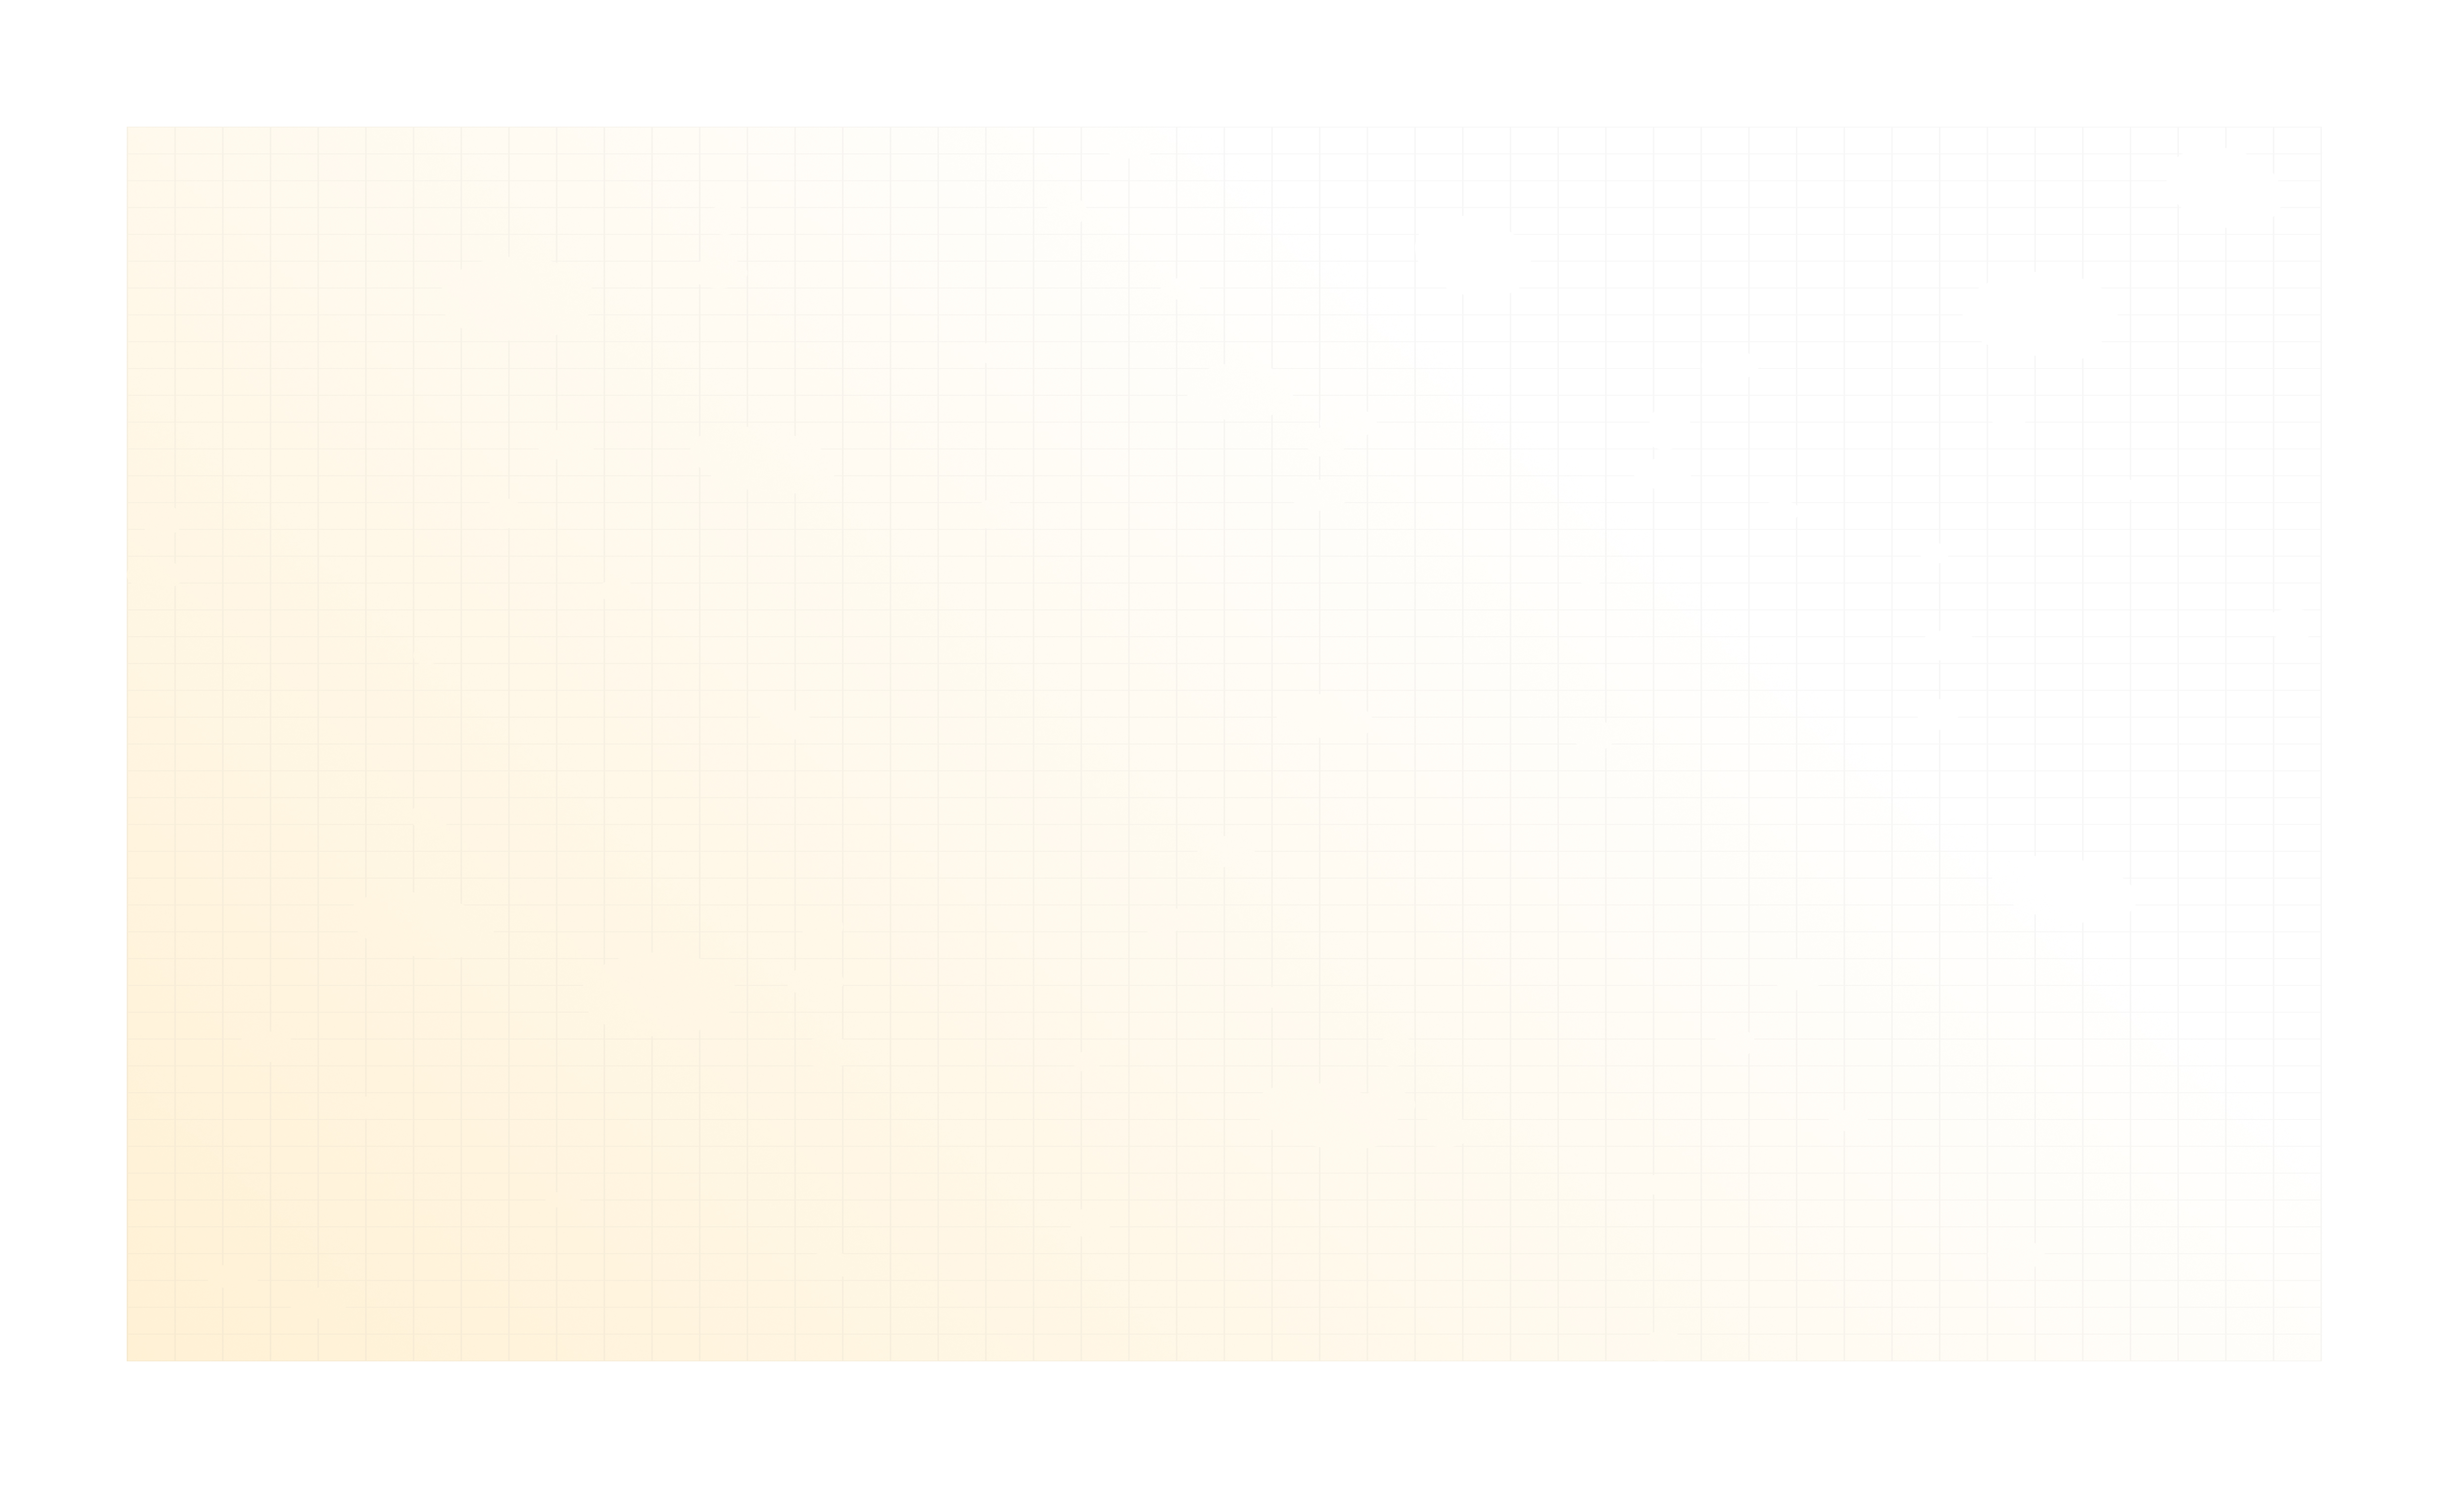
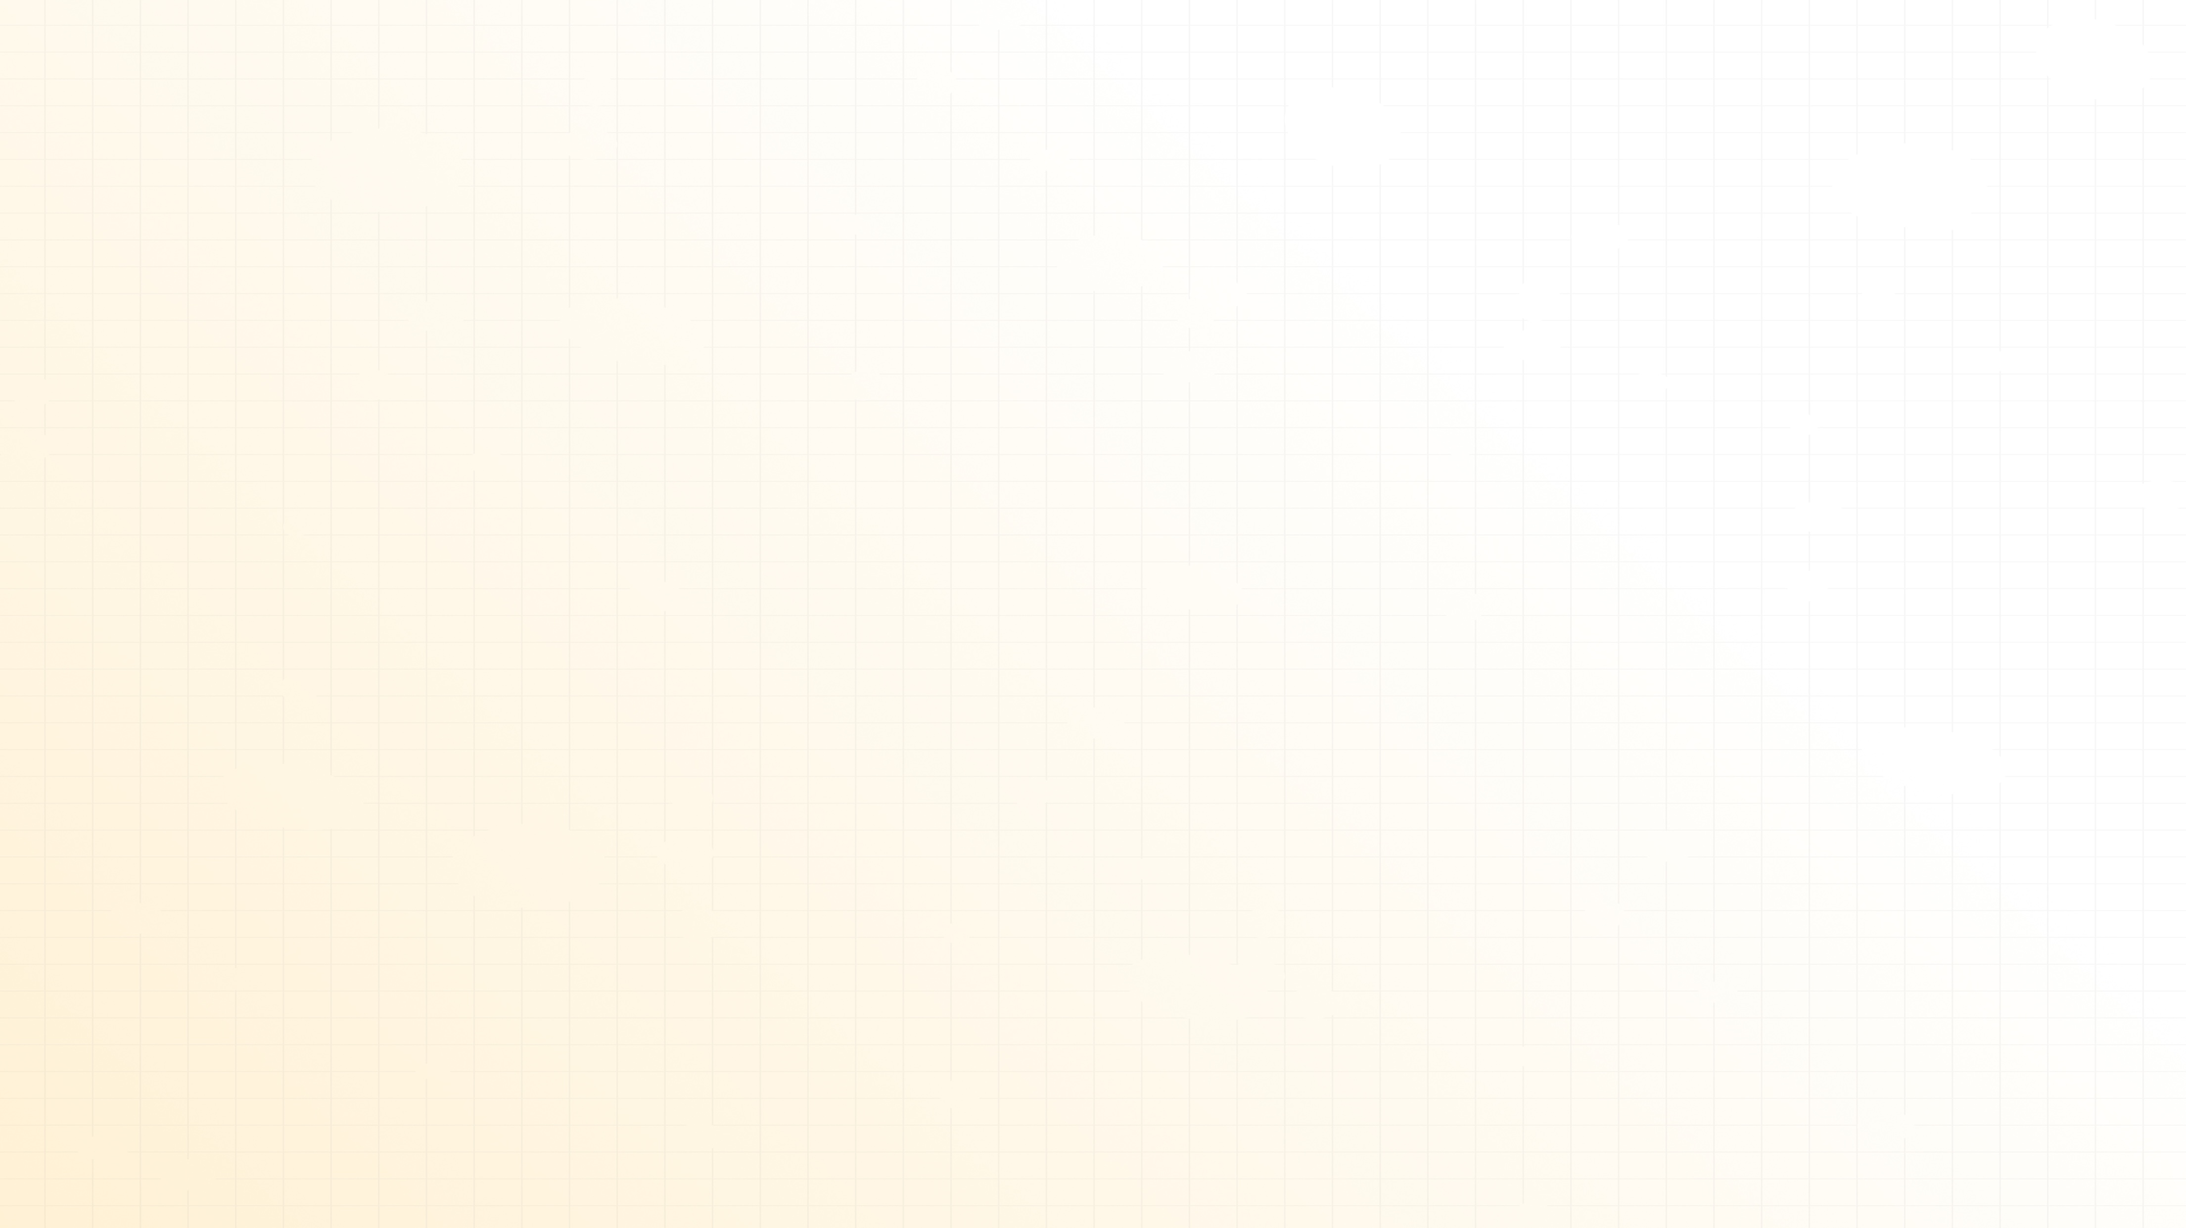
new home page design

Changed region(s): [[0.0, 0.2172, 0.4997, 1.0]]

diff --git a/app/assets/stylesheets/pages/_home.scss b/app/assets/stylesheets/pages/_home.scss
@@ -32,7 +32,7 @@
   z-index: 1;
   text-align: center;
   width: 100%;
-  max-width: 700px;
+  max-width: 1400px;
   padding: 0 24px;
 }
 
@@ -50,10 +50,26 @@
   font-style: normal;
 }
 
+.home-title-typewriter {
+  color: #f5a623;
+}
+
+.home-title-cursor {
+  color: #f5a623;
+  font-weight: 300;
+  animation: blink 0.7s step-end infinite;
+}
+
+@keyframes blink {
+  0%, 100% { opacity: 1; }
+  50%       { opacity: 0; }
+}
+
 // Chatbar
 
 .home-form {
-  width: 100%;
+  width: 66%;
+  margin: 0 auto;
 }
 
 .home-chatbar {
@@ -80,38 +96,58 @@
 }
 
 .home-submit {
-  display: flex;
-  align-items: center;
-  gap: 6px;
-  background: transparent;
+  position: relative;
+  padding: 12px 18px;
+  transition: all 0.2s ease;
   border: none;
+  background: none;
   cursor: pointer;
-  padding: 4px 8px 4px 0;
-
-  &:hover .home-submit-dot {
-    background: darken(#f5a623, 8%);
-  }
-}
-
-.home-submit-dot {
-  width: 42px;
-  height: 42px;
-  border-radius: 50%;
-  background: #f5a623;
   flex-shrink: 0;
-  transition: background 0.2s;
-}
 
-.home-submit-label {
-  font-size: 0.85rem;
-  font-weight: 700;
-  letter-spacing: 1px;
-  color: #3a3530;
-  text-transform: uppercase;
-}
+  &::before {
+    content: "";
+    position: absolute;
+    top: 0;
+    left: 0;
+    display: block;
+    border-radius: 50px;
+    background: #f5a623;
+    width: 45px;
+    height: 45px;
+    transition: all 0.3s ease;
+  }
 
-.home-submit-arrow {
-  font-size: 1.1rem;
-  color: #3a3530;
-  font-weight: 400;
+  span {
+    position: relative;
+    font-family: "Poppins", sans-serif;
+    font-size: 1rem;
+    font-weight: 500;
+    letter-spacing: 0.05em;
+    color: #3a3530;
+  }
+
+  svg {
+    position: relative;
+    top: 0;
+    margin-left: 10px;
+    fill: none;
+    stroke-linecap: round;
+    stroke-linejoin: round;
+    stroke: #3a3530;
+    stroke-width: 2;
+    transform: translateX(-5px);
+    transition: all 0.3s ease;
+  }
+
+  &:hover::before {
+    width: 100%;
+  }
+
+  &:hover svg {
+    transform: translateX(0);
+  }
+
+  &:active {
+    transform: scale(0.95);
+  }
 }

diff --git a/app/assets/stylesheets/config/_fonts.scss b/app/assets/stylesheets/config/_fonts.scss
@@ -1,5 +1,6 @@
 // Import Google fonts
 @import url('https://fonts.googleapis.com/css?family=Nunito:400,700|Work+Sans:400,700&display=swap');
+@import url('https://fonts.googleapis.com/css2?family=Poppins:wght@400;500;700&display=swap');
 
 // Define fonts for body and headers
 $body-font: "Work Sans", "Helvetica", "sans-serif";
